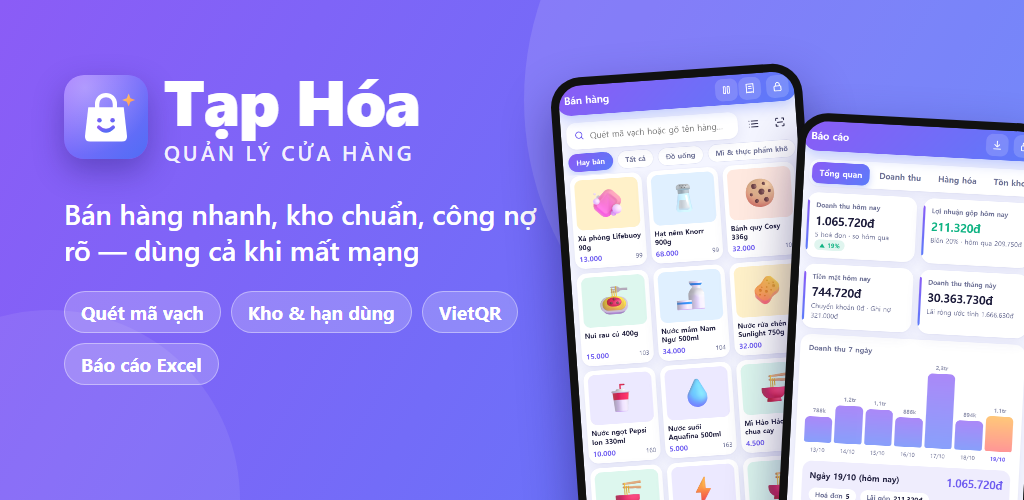
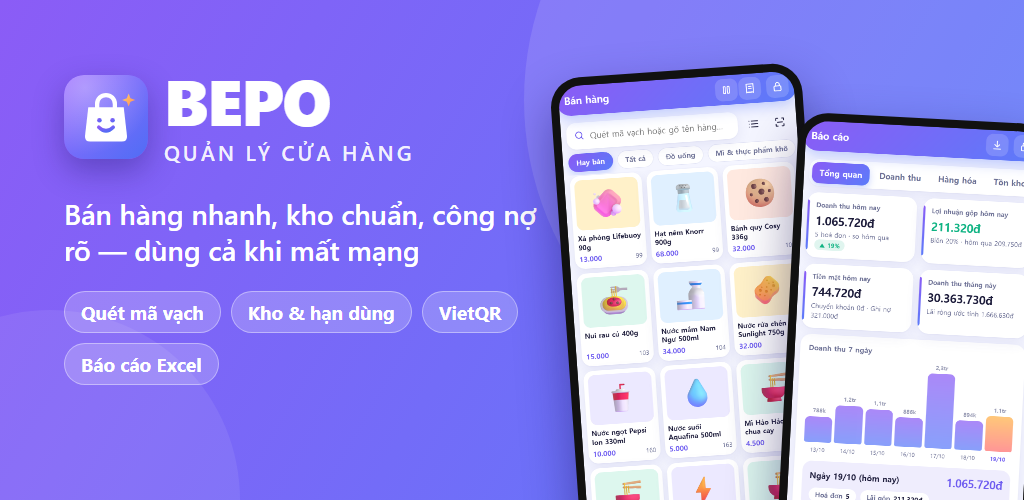
Trang cửa hàng Google Play: đổi tên thành BEPO - Quản lý cửa hàng, mô tả cho cửa hàng bán lẻ nói chung, ảnh bìa và trang web theo tên mới

Changed region(s): [[0.1562, 0.15, 0.4062, 0.3]]

diff --git a/docs/chinh-sach-bao-mat.html b/docs/chinh-sach-bao-mat.html
@@ -3,7 +3,7 @@
 <head>
 <meta charset="utf-8">
 <meta name="viewport" content="width=device-width,initial-scale=1">
-<title>Chính sách bảo mật — Tạp Hóa - Quản lý cửa hàng</title>
+<title>Chính sách bảo mật — BEPO - Quản lý cửa hàng</title>
 <!-- GHI CHÚ CHO CHỦ DỰ ÁN: kiểm tra lại tên nhà phát triển và email liên hệ (tìm "TVT Group" và "tvtgroup.support@gmail.com") trước khi đăng.
      Trang này được đăng lên GitHub Pages bởi workflow .github/workflows/pages.yml (thư mục docs/). -->
 <style>
@@ -27,12 +27,12 @@
 <body>
 <main>
   <h1>Chính sách bảo mật</h1>
-  <p class="muted">Ứng dụng <b>Tạp Hóa - Quản lý cửa hàng</b> · Nhà phát triển: <b>TVT Group</b> · Cập nhật lần cuối: 18/10/2026 · Liên hệ: <a href="mailto:tvtgroup.support@gmail.com">tvtgroup.support@gmail.com</a></p>
+  <p class="muted">Ứng dụng <b>BEPO - Quản lý cửa hàng</b> · Nhà phát triển: <b>TVT Group</b> · Cập nhật lần cuối: 18/10/2026 · Liên hệ: <a href="mailto:tvtgroup.support@gmail.com">tvtgroup.support@gmail.com</a></p>
 
   <div class="box"><p>Điều quan trọng nhất: <b>dữ liệu bán hàng của cửa hàng (hàng hoá, hoá đơn, khách hàng, công nợ, kho…) lưu ngay trên điện thoại của bạn</b>. Nếu bạn bật "Đồng bộ nhiều máy", dữ liệu đó còn được lưu trong <b>dự án Supabase riêng do chính bạn sở hữu</b> — nhà phát triển không truy cập được và không lưu bản sao nào của dữ liệu bán hàng.</p></div>
 
   <h2>1. Ứng dụng này là gì</h2>
-  <p>Tạp Hóa là ứng dụng quản lý cửa hàng tạp hóa cho chủ cửa hàng và nhân viên: bán hàng, quét mã vạch, kho hàng và hạn dùng, công nợ khách/nhà cung cấp, sổ quỹ, báo cáo, xuất Excel, in hoá đơn qua máy in Bluetooth, mã thanh toán VietQR. Ứng dụng chạy được khi không có Internet.</p>
+  <p>BEPO là ứng dụng quản lý cửa hàng bán lẻ (tạp hóa, siêu thị mini…) cho chủ cửa hàng và nhân viên: bán hàng, quét mã vạch, kho hàng và hạn dùng, công nợ khách/nhà cung cấp, sổ quỹ, báo cáo, xuất Excel, in hoá đơn qua máy in Bluetooth, mã thanh toán VietQR. Ứng dụng chạy được khi không có Internet.</p>
 
   <h2>2. Thông tin được thu thập và lưu</h2>
   <h3>2.1. Lưu trên máy của bạn (không gửi đi đâu)</h3>

diff --git a/docs/index.html b/docs/index.html
@@ -3,7 +3,7 @@
 <head>
 <meta charset="utf-8">
 <meta name="viewport" content="width=device-width,initial-scale=1">
-<title>Tạp Hóa - Quản lý cửa hàng</title>
+<title>BEPO - Quản lý cửa hàng</title>
 <style>
   :root { --bg:#f7f6fd; --ink:#1f1d33; --muted:#625f7a; --accent:#6d5bf0; }
   @media (prefers-color-scheme: dark) { :root { --bg:#14131c; --ink:#eceaf8; --muted:#aaa6c4; --accent:#9d8cff; } }
@@ -16,9 +16,9 @@
 </head>
 <body>
 <main>
-  <img src="icon.svg" alt="Tạp Hóa">
-  <h1>Tạp Hóa</h1>
-  <p>Quản lý cửa hàng tạp hóa: bán hàng, quét mã vạch, kho hàng, công nợ, báo cáo — dùng được cả khi mất mạng.</p>
+  <img src="icon.svg" alt="BEPO">
+  <h1>BEPO</h1>
+  <p>Quản lý cửa hàng bán lẻ: bán hàng, quét mã vạch, kho hàng, công nợ, báo cáo — dùng được cả khi mất mạng.</p>
   <ul>
     <li><a href="chinh-sach-bao-mat.html">Chính sách bảo mật</a></li>
     <li><a href="xoa-tai-khoan.html">Xoá tài khoản và dữ liệu</a></li>

diff --git a/docs/xoa-tai-khoan.html b/docs/xoa-tai-khoan.html
@@ -3,7 +3,7 @@
 <head>
 <meta charset="utf-8">
 <meta name="viewport" content="width=device-width,initial-scale=1">
-<title>Xoá tài khoản — Tạp Hóa - Quản lý cửa hàng</title>
+<title>Xoá tài khoản — BEPO - Quản lý cửa hàng</title>
 <!-- GHI CHÚ CHO CHỦ DỰ ÁN: kiểm tra lại email liên hệ "tvtgroup.support@gmail.com" trước khi đăng. -->
 <style>
   :root { --bg:#f7f6fd; --ink:#1f1d33; --muted:#625f7a; --line:#e3e0f3; --accent:#6d5bf0; --card:#ffffff; }
@@ -23,7 +23,7 @@
 <body>
 <main>
   <h1>Xoá tài khoản và dữ liệu</h1>
-  <p class="muted">Ứng dụng <b>Tạp Hóa - Quản lý cửa hàng</b> · Nhà phát triển: TVT Group</p>
+  <p class="muted">Ứng dụng <b>BEPO - Quản lý cửa hàng</b> · Nhà phát triển: TVT Group</p>
 
   <p>Ứng dụng có hai nơi lưu dữ liệu. Hãy chọn đúng phần bạn muốn xoá.</p>
 

diff --git a/play-listing/tools/feature.html b/play-listing/tools/feature.html
@@ -18,7 +18,7 @@
 </style></head><body>
 <div class="bg"></div>
 <div class="txt">
-  <div class="logo"><img src="/www/icon.svg" alt=""><div><h1>Tạp Hóa</h1><div class="sub">QUẢN LÝ CỬA HÀNG</div></div></div>
+  <div class="logo"><img src="/www/icon.svg" alt=""><div><h1>BEPO</h1><div class="sub">QUẢN LÝ CỬA HÀNG</div></div></div>
   <p>Bán hàng nhanh, kho chuẩn, công nợ rõ — dùng cả khi mất mạng</p>
   <div class="chips"><span>Quét mã vạch</span><span>Kho &amp; hạn dùng</span><span>VietQR</span><span>Báo cáo Excel</span></div>
 </div>

diff --git a/play-listing/kich-ban-video.md b/play-listing/kich-ban-video.md
@@ -1,4 +1,4 @@
-# Tạp Hóa — kịch bản video giới thiệu (60 giây)
+# BEPO — kịch bản video giới thiệu (60 giây)
 
 Video là **tuỳ chọn** (Play Console cho dán link YouTube vào trang cửa hàng). Mọi tính năng trong kịch bản đều có trong app hiện tại.
 
@@ -10,19 +10,19 @@ Video là **tuỳ chọn** (Play Console cho dán link YouTube vào trang cửa 
 | Nhạc | Nhạc nền nhịp vừa, không lời, hạ nhỏ khi có lời đọc (dùng nhạc miễn phí bản quyền) |
 | Giọng | Thân thiện, câu ngắn, như chủ tiệm nói với chủ tiệm; không dùng từ chuyên môn |
 
-**Thông điệp xuyên suốt:** *"Tạp Hóa — quản lý cửa hàng gọn trong túi: bán hàng, kho, công nợ, báo cáo — mất mạng vẫn chạy."*
+**Thông điệp xuyên suốt:** *"BEPO — quản lý cửa hàng gọn trong túi: bán hàng, kho, công nợ, báo cáo — mất mạng vẫn chạy."*
 
 | # | Giây | Hình ảnh | Lời đọc | Chữ trên màn hình |
 |---|---|---|---|---|
 | 1 | 0:00–0:06 | Cảnh quầy tạp hóa đông khách, chủ tiệm ghi sổ tay, bấm máy tính (quay thật hoặc video minh hoạ miễn phí) | "Giờ cao điểm: ghi sổ tay, tính nhẩm, nợ khách nhớ không hết…" | "Bận rộn là… sai sót?" |
-| 2 | 0:06–0:11 | Logo Tạp Hóa hiện ra → màn **Bán hàng** (lưới hàng có ảnh) | "Có Tạp Hóa, mọi việc gọn trong chiếc điện thoại." | **Tạp Hóa** – Quản lý cửa hàng |
+| 2 | 0:06–0:11 | Logo BEPO hiện ra → màn **Bán hàng** (lưới hàng có ảnh) | "Có BEPO, mọi việc gọn trong chiếc điện thoại." | **BEPO** – Quản lý cửa hàng |
 | 3 | 0:11–0:20 | Bấm nút quét → camera quét mã vạch → hiện thông tin hàng → chỉnh số lượng → thêm vào giỏ | "Quét mã vạch là hàng vào giỏ. Chỉnh số lượng, giảm giá, xong." | "Quét mã vạch nhanh" |
 | 4 | 0:20–0:28 | Màn thanh toán: mã **VietQR** hiện trên màn hình, khách quét, báo đã thu; sau đó chọn "ghi nợ" cho khách quen | "Thu tiền mặt hay chuyển khoản — mã VietQR hiện ngay, mất mạng vẫn dùng được." | "VietQR tạo ngay trong app" |
 | 5 | 0:28–0:36 | Màn **Kho**: cảnh báo hết hàng / cận date, nút nhập hàng, kiểm kho bằng quét | "Biết hàng nào sắp hết, hàng nào cận date. Nhập kho, kiểm kho bằng một cú quét." | "Kho & hạn dùng" |
 | 6 | 0:36–0:43 | Màn **Khách hàng & công nợ**: danh sách nợ, tuổi nợ, nút thu nợ | "Ai nợ bao nhiêu, nợ bao lâu — rõ từng đồng." | "Công nợ rõ ràng" |
 | 7 | 0:43–0:51 | Màn **Báo cáo**: biểu đồ 7 ngày; chạm cột xem chi tiết; bấm **Xuất Excel** → mở tệp Excel đẹp | "Doanh thu, lãi, hàng bán chạy mỗi ngày. Xuất Excel gửi kế toán chỉ một chạm." | "Báo cáo & Excel" |
 | 8 | 0:51–0:58 | Chuyển nhanh: nhiều nhân viên, đồng bộ nhiều máy, giao diện sáng/tối | "Nhiều nhân viên, nhiều máy, dữ liệu là của bạn — lưu ngay trên điện thoại." | "Dữ liệu của cửa hàng là của cửa hàng" |
-| 9 | 0:58–1:03 | Logo + nút Google Play | "Tạp Hóa — tải về trên Google Play, dùng thử ngay hôm nay." | Tải trên Google Play |
+| 9 | 0:58–1:03 | Logo + nút Google Play | "BEPO — tải về trên Google Play, dùng thử ngay hôm nay." | Tải trên Google Play |
 
 ## Quay dựng nhanh
 1. Cài bản thử, thiết lập cửa hàng mẫu, nạp dữ liệu mẫu 30 ngày.

diff --git a/play-listing/bai-dang-cua-hang.md b/play-listing/bai-dang-cua-hang.md
@@ -7,19 +7,19 @@ Giới hạn ký tự của Google: tên 30 · mô tả ngắn 80 · mô tả đ
 
 ### Tên ứng dụng (≤ 30)
 ```
-Tạp Hóa - Quản lý cửa hàng
+BEPO - Quản lý cửa hàng
 ```
-_(26 ký tự)_
+_(23 ký tự)_
 
 ### Mô tả ngắn (≤ 80)
 ```
-Bán hàng, kho, công nợ, báo cáo cho tạp hóa — dùng được cả khi mất mạng
+Bán hàng, kho, công nợ, báo cáo cho cửa hàng — dùng được cả khi mất mạng
 ```
-_(70 ký tự)_
+_(72 ký tự)_
 
 ### Mô tả đầy đủ (≤ 4000)
 ```
-Tạp Hóa là ứng dụng quản lý bán hàng trọn bộ cho cửa hàng tạp hóa, siêu thị mini, quán tạp phẩm: bán hàng, quét mã vạch, kho hàng, công nợ, sổ quỹ và báo cáo — ngay trên điện thoại, không cần máy POS đắt tiền.
+BEPO là ứng dụng quản lý bán hàng trọn bộ cho cửa hàng bán lẻ — tạp hóa, siêu thị mini, cửa hàng mỹ phẩm, văn phòng phẩm, vật liệu, đồ gia dụng…: bán hàng, quét mã vạch, kho hàng, công nợ, sổ quỹ và báo cáo — ngay trên điện thoại, không cần máy POS đắt tiền.
 
 ★ HOẠT ĐỘNG CẢ KHI MẤT MẠNG
 Dữ liệu lưu ngay trên điện thoại. Mất Internet vẫn bán hàng, thu tiền, nhập kho bình thường. Cần dùng chung nhiều máy? Bật đồng bộ qua kho dữ liệu riêng của bạn, có mạng là các máy tự cập nhật cho nhau.
@@ -82,16 +82,16 @@ Cần hỗ trợ? Liên hệ: tvtgroup.support@gmail.com
 
 ## Tiếng Anh (en-US) — nên thêm để người duyệt của Google đọc được
 
-**App name (≤ 30):** `Tạp Hóa - Quản lý cửa hàng`
+**App name (≤ 30):** `BEPO - Quản lý cửa hàng`
 
 **Short description (≤ 80):**
 ```
-POS, stock, debts and reports for grocery stores — works offline
+POS, stock, debts and reports for retail stores — works offline
 ```
 
 **Full description:**
 ```
-Tạp Hóa is an all-in-one point-of-sale and inventory app for grocery and convenience stores in Vietnam: selling, barcode scanning, stock, customer/supplier debts, cash book and reports — on your phone, no expensive POS needed.
+BEPO is an all-in-one point-of-sale and inventory app for retail shops in Vietnam (grocery, mini-mart, cosmetics, stationery, hardware and more): selling, barcode scanning, stock, customer/supplier debts, cash book and reports — on your phone, no expensive POS needed.
 
 • Works offline — data is stored on the device. Optional multi-device sync through your own Supabase project
 • Fast checkout: camera or Bluetooth barcode scanning, search without accents, cart with per-line and order discounts, hold orders
@@ -120,7 +120,7 @@ First release on Google Play: offline POS, barcode scanning, stock, debts, Excel
 |---|---|
 | Ứng dụng hay trò chơi | **Ứng dụng** |
 | Danh mục | **Kinh doanh** (Business) |
-| Thẻ (tối đa 5) | Bán hàng · Quản lý kho · Thu ngân · Quản lý cửa hàng · Kinh doanh nhỏ |
+| Thẻ (tối đa 5) | Bán hàng · Quản lý kho · Thu ngân · Quản lý cửa hàng · Bán lẻ |
 | Miễn phí hay trả phí | **Miễn phí** (có gói đăng ký trong ứng dụng) |
 | Email liên hệ | `tvtgroup.support@gmail.com` _(kiểm tra lại)_ |
 | Trang web | `https://tvtgroupsupport-arch.github.io/cua-hang-thong-minh/` _(sau khi bật GitHub Pages)_ |

diff --git a/play-listing/README.md b/play-listing/README.md
@@ -1,4 +1,4 @@
-# Bộ hồ sơ đưa app Tạp Hóa lên Google Play
+# Bộ hồ sơ đưa app BEPO - Quản lý cửa hàng lên Google Play
 
 Thư mục này gom mọi thứ cần có để điền Play Console (làm theo mẫu của app BEPO). Làm theo thứ tự dưới đây.
 
